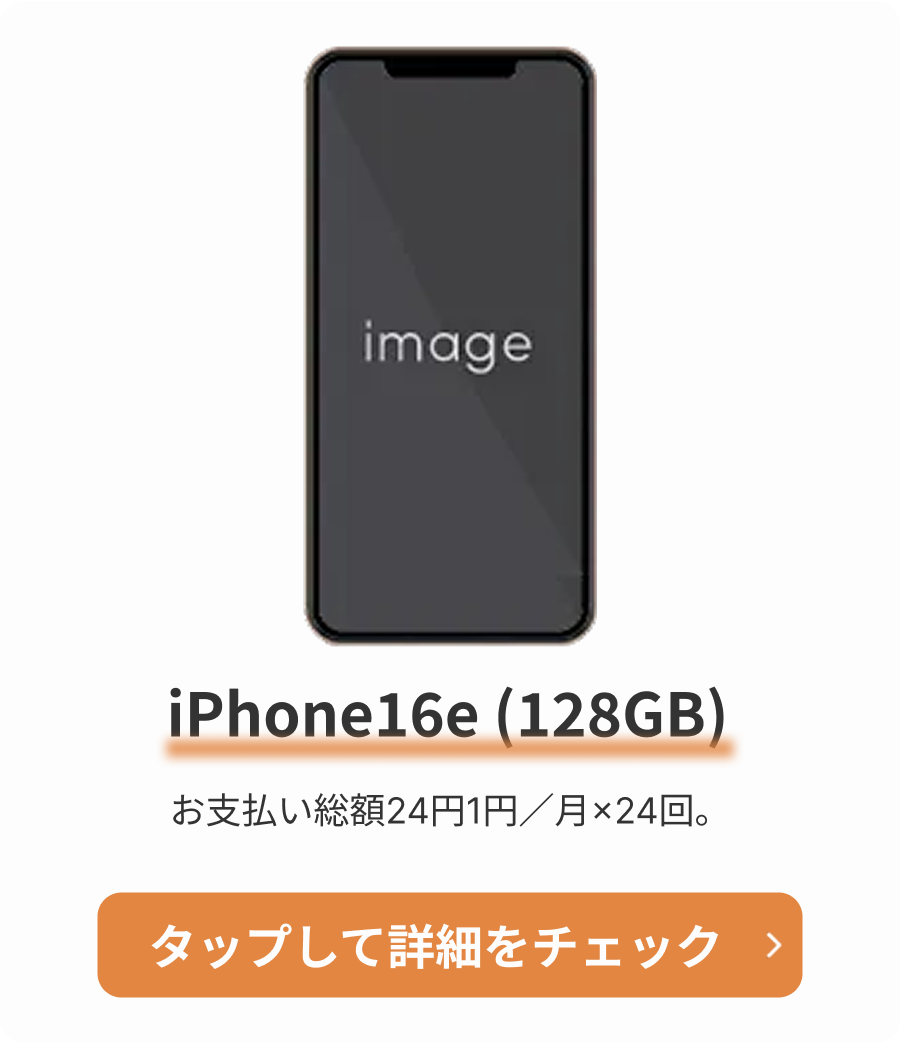
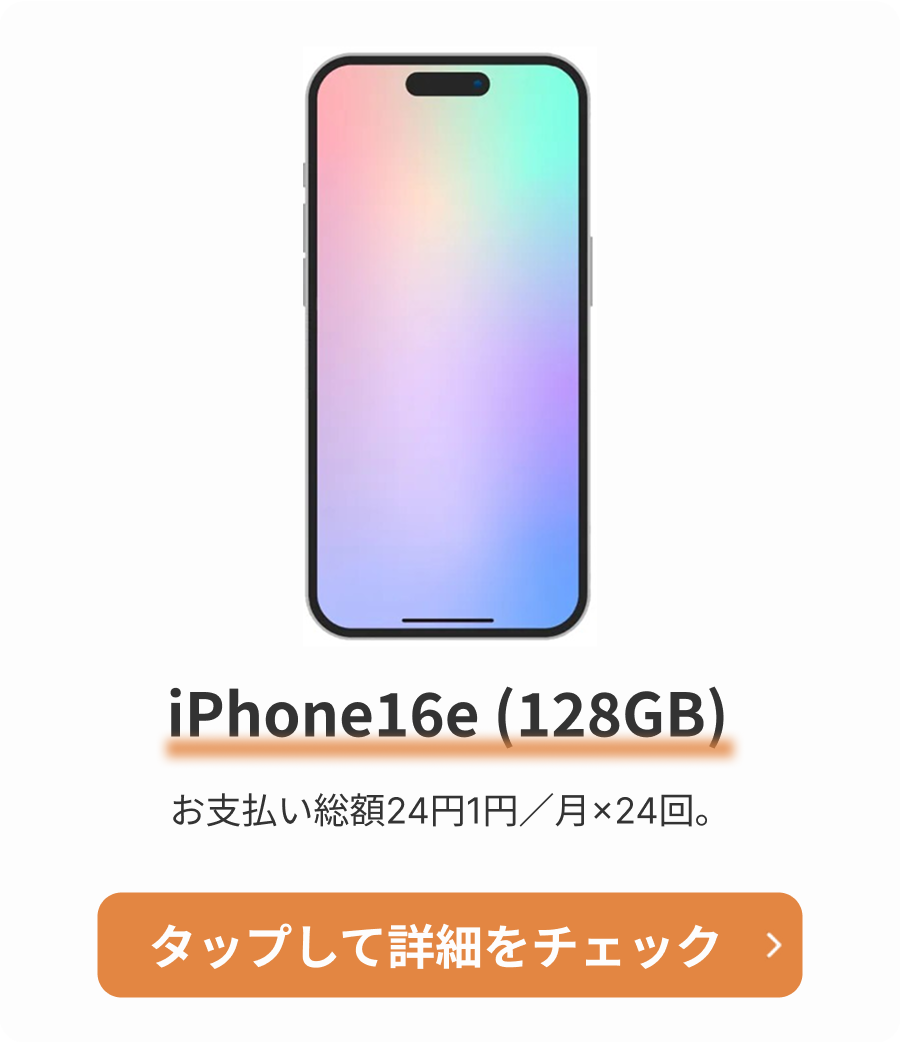
Add files via upload

Changed region(s): [[0.3111, 0.0307, 0.6844, 0.6449]]

diff --git a/js/main.js b/js/main.js
@@ -1,6 +1,8 @@
 $(function () {
 
-  
+  // popular_smartphone_top3
+
+
   $('.slick-box').slick({
     autoplay: true,
     autoplaySpeed: 3000,
@@ -16,24 +18,24 @@ $(function () {
 
   // 画像の対応リスト
   const imageMap = {
-    'img/top3-1.png': 'img/IPhone15_128GB.png',
+    'img/top3-1.png': 'img/IPhone16_128GB.png',
     'img/top3-2.png': 'img/AQUOSwish4_rev01.jpg',
     'img/top3-3.png': 'img/iPhoneSE_rev13.jpg'
   };
 
-  const link = "https://houjinsp-online.com/contact.php"; // モーダル画像のリンク先
+  const link = "https://houjinsp-online.com/contact.php";
 
   // 画像クリックでモーダル表示
   $('.slick__item a').on('click', function(event) {
-    event.preventDefault(); // ページ遷移を防ぐ
+    event.preventDefault(); 
 
-    let clickedImgSrc = $(this).find('img').attr('src'); // クリックした画像のsrcを取得
-    let modalImgSrc = imageMap[clickedImgSrc]; // 対応するモーダル画像を取得
+    let clickedImgSrc = $(this).find('img').attr('src'); 
+    let modalImgSrc = imageMap[clickedImgSrc]; 
 
     if (modalImgSrc) {
-      $('#modal-image').attr('src', modalImgSrc); // モーダル画像を変更
-      $('#modal-image').data('link', link); // 画像にリンクを保存
-      $('.modal').addClass('show'); // モーダルを表示
+      $('#modal-image').attr('src', modalImgSrc); 
+      $('#modal-image').data('link', link); 
+      $('.modal').addClass('show'); 
     }
   });
 
@@ -44,8 +46,8 @@ $(function () {
 
   // モーダル画像クリックでリンクへ遷移
   $('#modal-image').on('click', function(event) {
-    event.stopPropagation(); // モーダルを閉じる処理を阻止
-    let link = $(this).data('link'); // 事前に保存したリンクを取得
+    event.stopPropagation(); 
+    let link = $(this).data('link'); 
     if (link) {
       window.location.href = link;
     }
@@ -53,15 +55,17 @@ $(function () {
 
 
   
+
+  // popular_model
   const $slider = $(".slick-box2");
 
   $slider.slick({
-    infinite: false, // 無限ループを無効化
-    autoplay: false, // 自動スライドなし（手動のみ）
-    arrows: true, // 矢印を表示
+    infinite: false, 
+    autoplay: false, 
+    arrows: true, 
     prevArrow: '<img src="img/prev-arrow.png" class="slick-prev" alt="前へ">',
     nextArrow: '<img src="img/next-arrow.png" class="slick-next" alt="次へ">',
-    dots: false, // ドットナビゲーションなし
+    dots: false, 
     slidesToShow: 1,
     slidesToScroll: 1
   });
@@ -82,42 +86,47 @@ $(function () {
   });
 
   
- // ページ内のリンクをクリックした時に動作する
+
+  // price_simulationのボタンを押したらスムーススクロール
  $('a[href^="#"]').click(function () {
-  // クリックしたaタグのリンクを取得
   let href = $(this).attr("href");
-  // ジャンプ先のid名をセット hrefの中身が#もしくは空欄なら,htmlタグをセット
+  
   let target = $(href == "#" || href == "" ? "html" : href);
-  // ページトップからジャンプ先の要素までの距離を取得
+ 
   let position = target.offset().top;
-  // animateでスムーススクロールを行う   ページトップからpositionだけスクロールする
-  // 600はスクロール速度で単位はミリ秒  swingはイージングのひとつ
+  
   $("html, body").animate({ scrollTop: position }, 600, "swing");
-  // urlが変化しないようにfalseを返す
+  
   return false; 
 });
 
 
 
 // よくあるご質問
-$('.qa-title').on('click', function() {//タイトル要素をクリックしたら
-  var findElm = $(this).next(".qa-box");//直後のアコーディオンを行うエリアを取得し
-  $(findElm).slideToggle();//アコーディオンの上下動作
+$('.qa-title').on('click', function() {
+  var findElm = $(this).next(".qa-box");
+  $(findElm).slideToggle();
     
-  if($(this).hasClass('close')){//タイトル要素にクラス名closeがあれば
-    $(this).removeClass('close');//クラス名を除去し
+  if($(this).hasClass('close')){
+    $(this).removeClass('close');
   }else{
-    $(this).addClass('close');//クラス名closeを付与
+    $(this).addClass('close');
   }
 });
 
+
+
+// 下の固定メニューをスクロールしたら表示
 $(window).on('scroll', function() {
-  if ($(window).scrollTop() > $(window).height()) { // 100vh（1画面分）スクロールしたら
-      $('.fixed_menu').addClass('show'); // メニュー表示
+  if ($(window).scrollTop() > $(window).height()) { 
+      $('.fixed_menu').addClass('show'); 
   } else {
-      $('.fixed_menu').removeClass('show'); // 元の位置に戻す
+      $('.fixed_menu').removeClass('show'); 
   }
 });
+
+
+
 
 
   // スクロール時のイベント
@@ -134,7 +143,7 @@ $(window).on('scroll', function() {
 
       if (scroll > target - windowHeight + 200) {
 
-        // 条件が満たされた場合、要素の不透明度（opacity）を1に設定し、Y軸方向に移動（translateY）させます。
+        
         $(this).css("opacity", "1");
         $(this).css("transform", "translateY(0)");
       }
